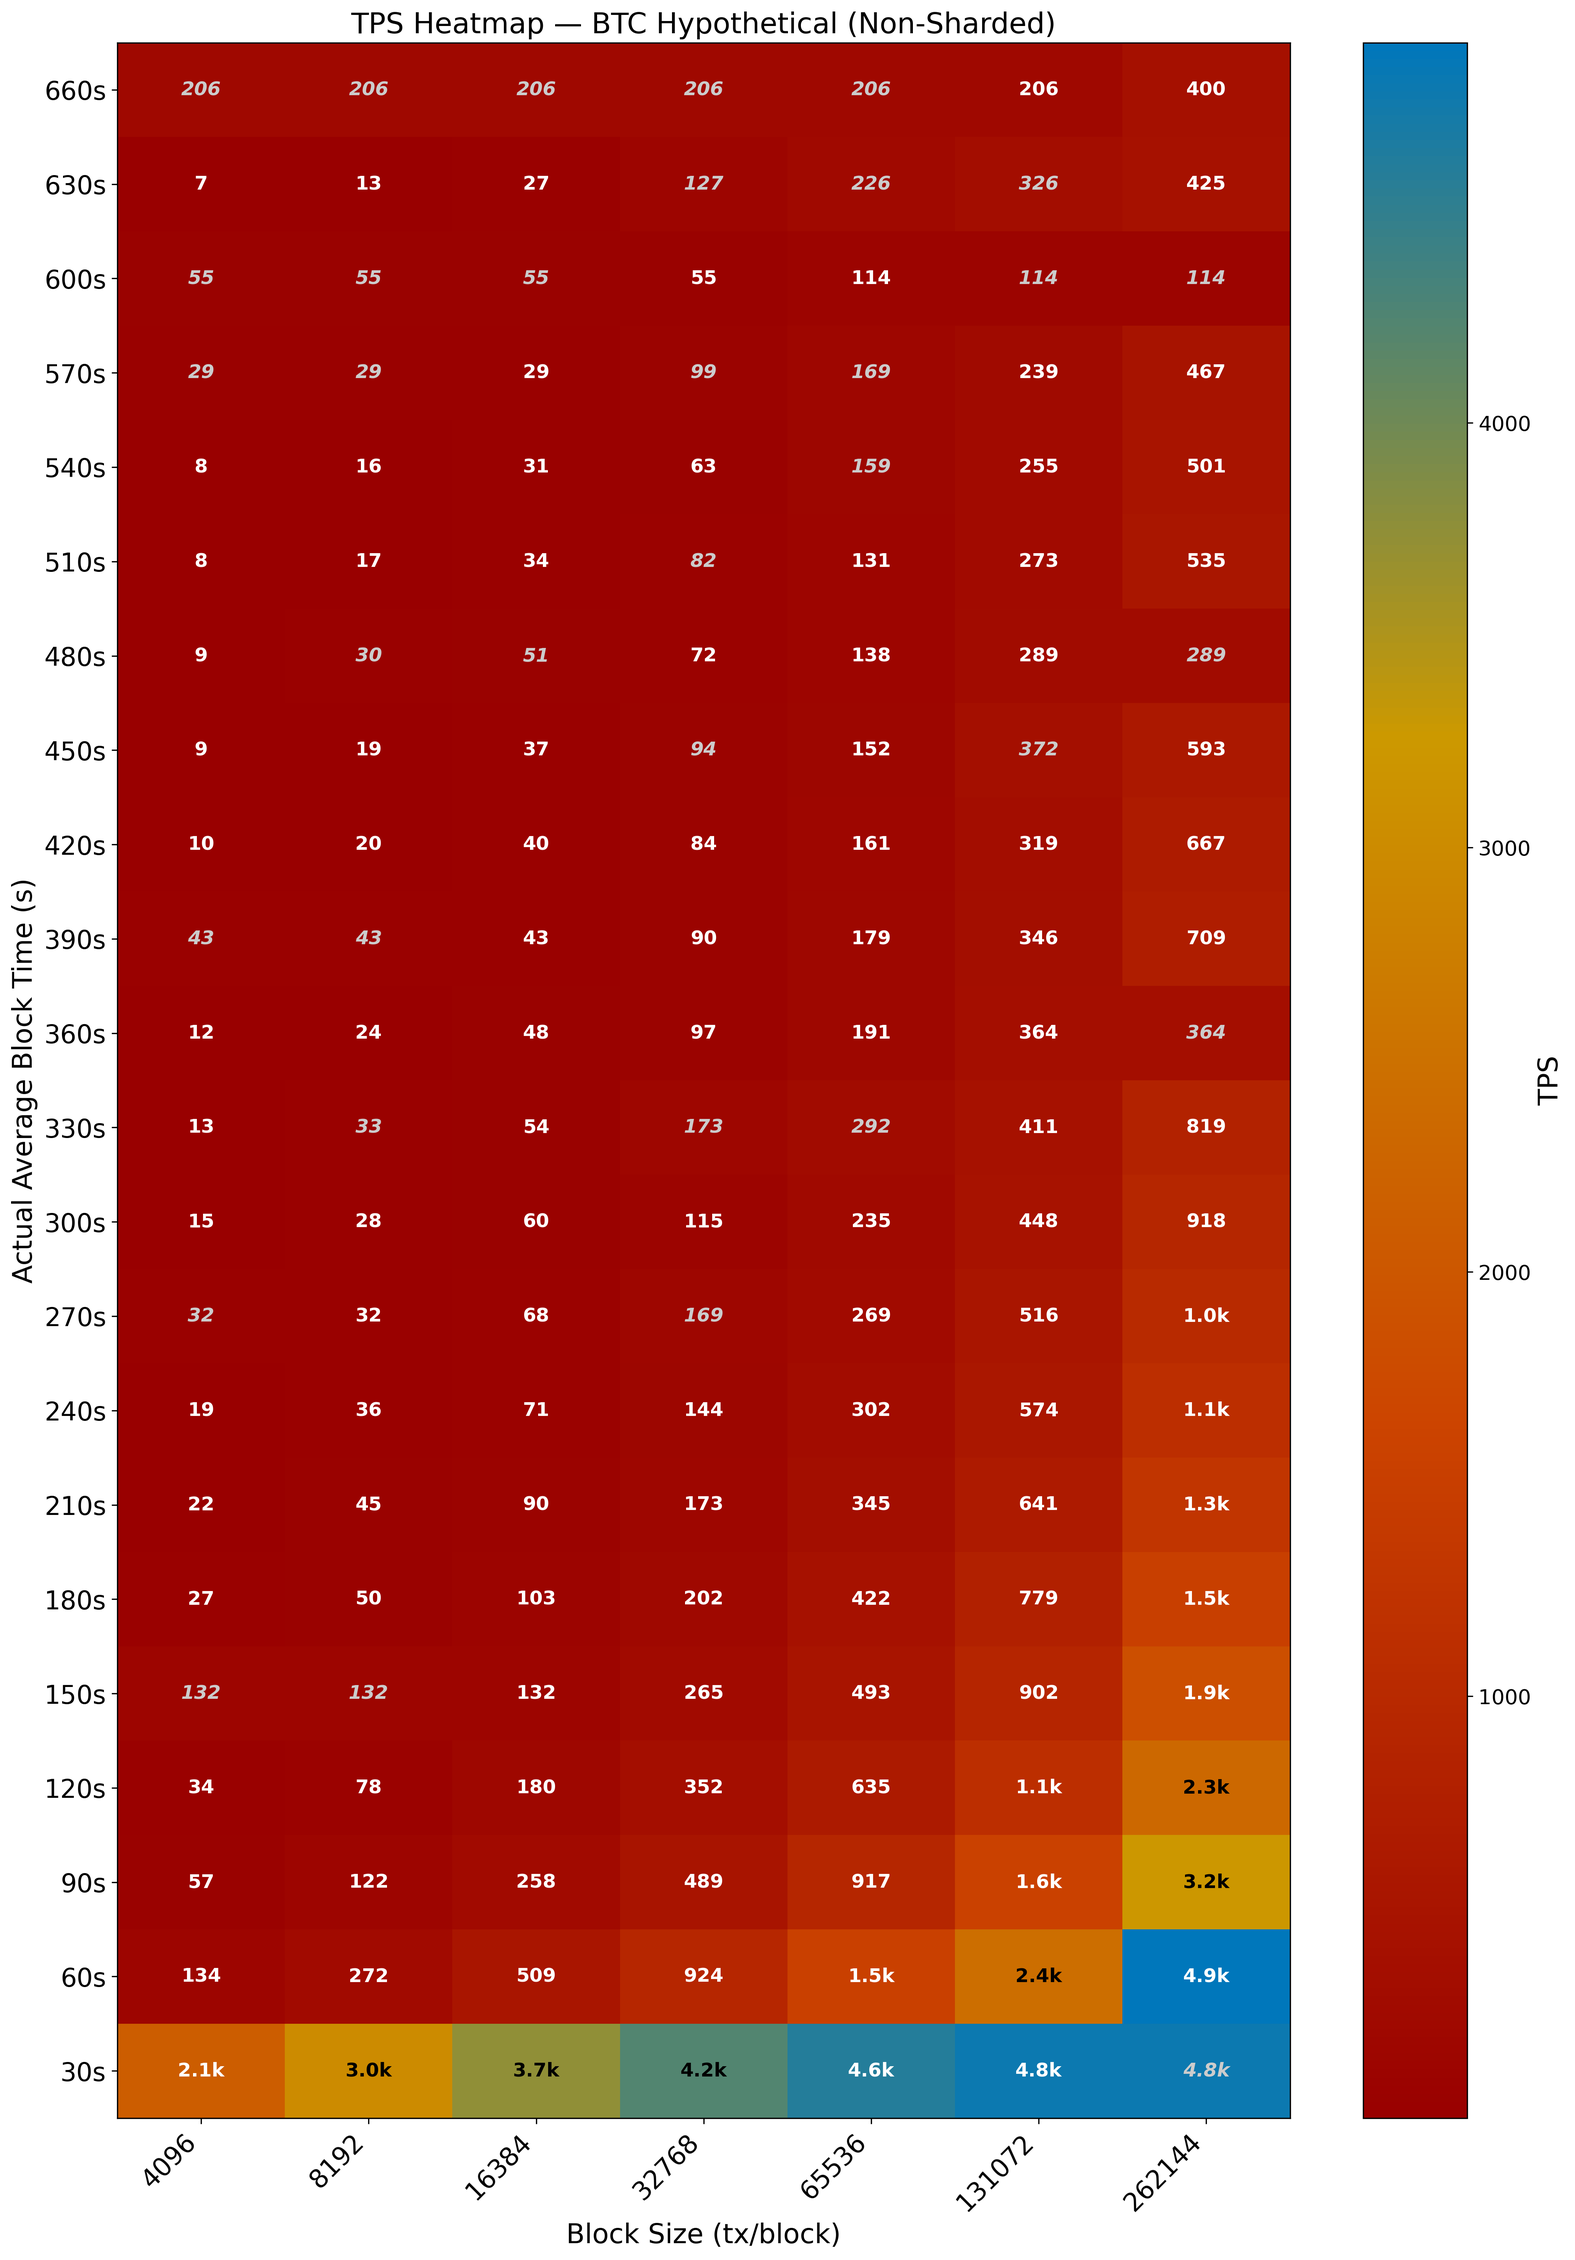
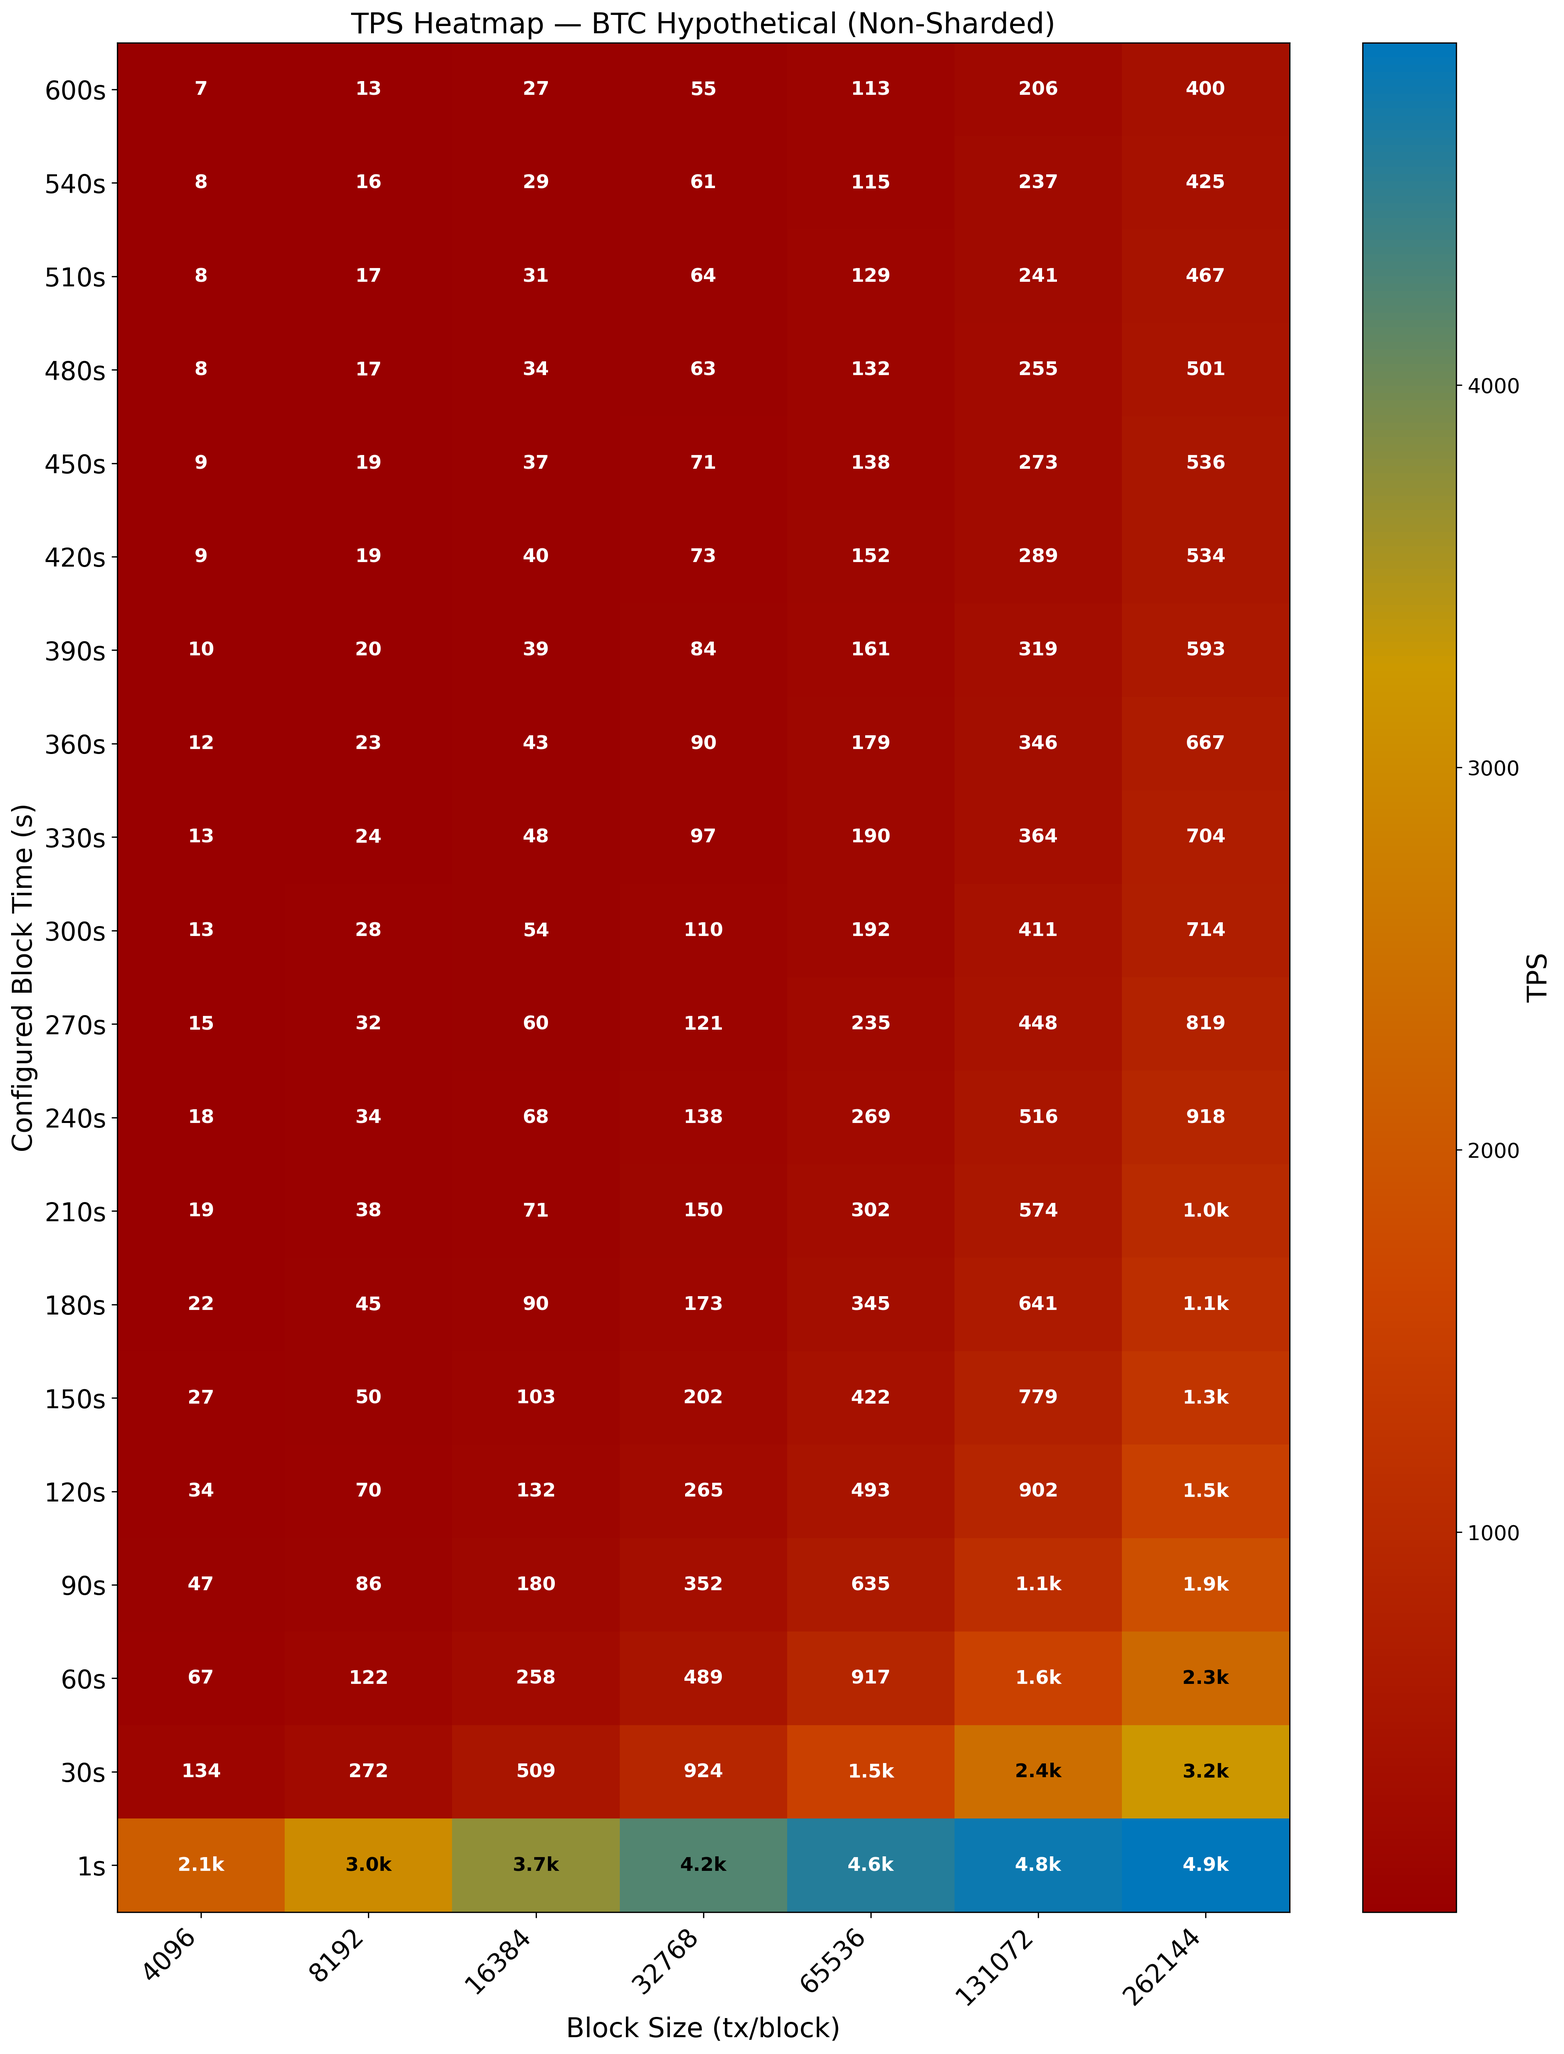
added new graphs, potentially to be added  in the paper

diff --git a/graph.py b/graph.py
@@ -156,12 +156,11 @@ def run_bubble_nonsharded_vs_memo_s1(non_csv: str, memo_csv: str, outdir: str, s
 
     c_currency = pick_col(["currency"])
     c_bs       = pick_col(["block size", "block_size", "blocksize"])
-    c_abt      = pick_col(["average block time", "avg block time", "avg_block_time"])
     c_bt_cfg   = pick_col(["blocktime in configuration file", "configured blocktime", "blocktime"])
     c_tps      = pick_col(["tps"])
 
     missing = [n for n, c in [("currency", c_currency), ("block size", c_bs),
-                               ("average block time", c_abt), ("blocktime in configuration file", c_bt_cfg),
+                               ("blocktime in configuration file", c_bt_cfg),
                                ("tps", c_tps)] if c is None]
     if missing:
         print(f"[skip] non-sharded CSV missing required columns: {missing}")
@@ -178,36 +177,47 @@ def run_bubble_nonsharded_vs_memo_s1(non_csv: str, memo_csv: str, outdir: str, s
         print("[skip] non-sharded CSV has no rows for btc_hypothetical")
         return
 
-    for c in [c_bs, c_abt, c_bt_cfg, c_tps]:
+    for c in [c_bs, c_bt_cfg, c_tps]:
         df[c] = pd.to_numeric(df[c], errors="coerce")
-    df = df.dropna(subset=[c_bs, c_abt, c_bt_cfg, c_tps])
+    df = df.dropna(subset=[c_bs, c_bt_cfg, c_tps])
     if df.empty:
         print("[skip] BTC heatmap has no usable rows after numeric coercion")
         return
 
     df["bs"]      = df[c_bs].astype(float).round().astype(int)
-    df["abt"]     = df[c_abt].astype(float)
+    df["bt_cfg"]  = df[c_bt_cfg].astype(float)
     df["tps_val"] = df[c_tps].astype(float)
 
-    # Y-axis binned into 30-second ranges: 1-30s, 30-60s, 60-90s, ...
-    df["abt_key"] = (df["abt"] // 30).astype(int) * 30
+    block_sizes   = sorted(df["bs"].unique().tolist())
+    bt_cfg_keys   = sorted(df["bt_cfg"].unique().tolist())
 
-    block_sizes = sorted(df["bs"].unique().tolist())
-    abt_keys    = sorted(df["abt_key"].unique().tolist())
-
-    pivot_tps = df.pivot_table(index="abt_key", columns="bs", values="tps_val", aggfunc="mean")
-    pivot_abt = df.pivot_table(index="abt_key", columns="bs", values="abt",     aggfunc="mean")
-    pivot_tps = pivot_tps.reindex(index=abt_keys, columns=block_sizes)
-    pivot_abt = pivot_abt.reindex(index=abt_keys, columns=block_sizes)
+    pivot_tps = df.pivot_table(index="bt_cfg", columns="bs", values="tps_val", aggfunc="mean")
+    pivot_tps = pivot_tps.reindex(index=bt_cfg_keys, columns=block_sizes)
 
     tps_vals  = pivot_tps.values.astype(float)
     was_nan   = np.isnan(tps_vals)
-    # Fill missing cells by averaging adjacent columns, then rows for any remaining gaps
-    tps_filled = pd.DataFrame(tps_vals).interpolate(axis=1, method="linear", limit_direction="both").values
-    tps_filled = pd.DataFrame(tps_filled).interpolate(axis=0, method="linear", limit_direction="both").values
-    masked     = np.ma.masked_invalid(tps_filled)
 
-    n_y, n_x = len(abt_keys), len(block_sizes)
+    # Fill NaN cells using only vertical (top/bottom) neighbors — never sideways
+    tps_filled = tps_vals.copy()
+    n_rows_fill, n_cols_fill = tps_vals.shape
+    for _j in range(n_cols_fill):
+        for _i in range(n_rows_fill):
+            if not np.isnan(tps_vals[_i, _j]):
+                continue
+            top = next((tps_vals[r, _j] for r in range(_i - 1, -1, -1)
+                        if not np.isnan(tps_vals[r, _j])), None)
+            bot = next((tps_vals[r, _j] for r in range(_i + 1, n_rows_fill)
+                        if not np.isnan(tps_vals[r, _j])), None)
+            if top is not None and bot is not None:
+                tps_filled[_i, _j] = (top + bot) / 2
+            elif top is not None:
+                tps_filled[_i, _j] = top
+            elif bot is not None:
+                tps_filled[_i, _j] = bot
+
+    masked = np.ma.masked_invalid(tps_filled)
+
+    n_y, n_x = len(bt_cfg_keys), len(block_sizes)
     x_edges  = np.arange(n_x + 1) - 0.5
     y_edges  = np.arange(n_y + 1) - 0.5
 
@@ -233,7 +243,7 @@ def run_bubble_nonsharded_vs_memo_s1(non_csv: str, memo_csv: str, outdir: str, s
     ax.set_xticks(range(n_x))
     ax.set_xticklabels([str(bs) for bs in block_sizes], rotation=45, ha="right", fontsize=16)
     ax.set_yticks(range(n_y))
-    ax.set_yticklabels([f"{k+30}s" for k in abt_keys], fontsize=16)
+    ax.set_yticklabels([f"{k:.0f}s" for k in bt_cfg_keys], fontsize=16)
 
     for i in range(n_y):
         for j in range(n_x):
@@ -241,21 +251,18 @@ def run_bubble_nonsharded_vs_memo_s1(non_csv: str, memo_csv: str, outdir: str, s
             if np.isnan(tps_val):
                 continue
             tps_str = f"{tps_val:.0f}" if tps_val < 1000 else f"{tps_val/1000:.1f}k"
-            # Pick white or black text based on background luminance (ITU-R BT.709)
             r, g, b, _ = cmap(norm(tps_val))
             lum = 0.2126 * r + 0.7152 * g + 0.0722 * b
-            base_color = "black" if lum > 0.45 else "white"
-            # Interpolated cells: same contrast rule but slightly muted
             if was_nan[i, j]:
                 color = "#444444" if lum > 0.45 else "#cccccc"
             else:
-                color = base_color
-            style = "italic" if was_nan[i, j] else "normal"
+                color = "black" if lum > 0.45 else "white"
             ax.text(j, i, tps_str, ha="center", va="center",
-                    fontsize=12, color=color, fontweight="bold", fontstyle=style)
+                    fontsize=12, color=color, fontweight="bold",
+                    fontstyle="italic" if was_nan[i, j] else "normal")
 
     ax.set_xlabel("Block Size (tx/block)", fontsize=17)
-    ax.set_ylabel("Actual Average Block Time (s)", fontsize=17)
+    ax.set_ylabel("Configured Mining Time (s)", fontsize=17)
     ax.set_title("TPS Heatmap — BTC Hypothetical (Non-Sharded)", fontsize=18)
 
     cbar = plt.colorbar(im, ax=ax)
@@ -267,6 +274,191 @@ def run_bubble_nonsharded_vs_memo_s1(non_csv: str, memo_csv: str, outdir: str, s
         plt.show()
     else:
         plt.close()
+
+
+# ----------------------------
+# 2b) Non-sharded: TPS scatter -> non_sharded_graphs/
+#     X = block size, Y = actual block time (raw), color = TPS
+#     Each dot = one simulation run, no binning or averaging
+# ----------------------------
+def run_nonsharded_scatter(non_csv: str, outdir: str, show: bool):
+    if not os.path.exists(non_csv):
+        print(f"[skip] non-sharded CSV not found: {non_csv}")
+        return
+
+    df = pd.read_csv(non_csv, engine="python", on_bad_lines="warn")
+    df.columns = [str(c).strip().lower() for c in df.columns]
+
+    def pick_col(candidates):
+        for c in candidates:
+            if c in df.columns:
+                return c
+        return None
+
+    c_currency = pick_col(["currency"])
+    c_bs       = pick_col(["block size", "block_size", "blocksize"])
+    c_abt      = pick_col(["average block time", "avg block time", "avg_block_time"])
+    c_tps      = pick_col(["tps"])
+    c_bt_cfg   = pick_col(["blocktime in configuration file", "configured blocktime", "blocktime"])
+
+    missing = [n for n, c in [("currency", c_currency), ("block size", c_bs),
+                               ("average block time", c_abt), ("tps", c_tps)] if c is None]
+    if missing:
+        print(f"[skip] non-sharded scatter missing columns: {missing}")
+        return
+
+    df[c_currency] = (
+        df[c_currency].astype(str)
+        .str.replace("", "", regex=False)
+        .str.lower().str.strip()
+    )
+    df = df[df[c_currency].eq("btc_hypothetical")].copy()
+    if df.empty:
+        print("[skip] no btc_hypothetical rows for scatter plot")
+        return
+
+    for c in [c_bs, c_abt, c_tps]:
+        df[c] = pd.to_numeric(df[c], errors="coerce")
+    df = df.dropna(subset=[c_bs, c_abt, c_tps]).copy()
+
+    df["bs"]      = df[c_bs].astype(float).round().astype(int)
+    df["abt"]     = df[c_abt].astype(float)
+    df["tps_val"] = df[c_tps].astype(float)
+
+    block_sizes  = sorted(df["bs"].unique().tolist())
+    x_positions  = {bs: i for i, bs in enumerate(block_sizes)}
+
+    # Small x-jitter so overlapping points don't stack invisibly
+    rng = np.random.default_rng(42)
+    df["x"] = df["bs"].map(x_positions) + rng.uniform(-0.25, 0.25, size=len(df))
+
+    fig, ax = plt.subplots(figsize=(14, 7))
+
+    cmap = plt.matplotlib.colors.LinearSegmentedColormap.from_list(
+        "red_to_skyblue", ["#990000", "#cc4400", "#cc9900", "#0077bb"]
+    )
+    norm = plt.Normalize(vmin=df["tps_val"].min(), vmax=df["tps_val"].max())
+
+    sc = ax.scatter(
+        df["x"], df["abt"],
+        c=df["tps_val"], cmap=cmap, norm=norm,
+        s=200, alpha=0.85, edgecolors="none"
+    )
+
+    cbar = plt.colorbar(sc, ax=ax)
+    cbar.set_label("TPS", fontsize=13)
+    cbar.ax.tick_params(labelsize=11)
+
+    ax.set_yscale("log")
+    ax.set_xticks(range(len(block_sizes)))
+    ax.set_xticklabels([str(bs) for bs in block_sizes], rotation=45, ha="right", fontsize=11)
+    ax.set_xlabel("Block Size (tx/block)", fontsize=13)
+    ax.set_ylabel("Actual Mining Time (s)", fontsize=13)
+    ax.set_title("Non-Sharded TPS Scatter — BTC Hypothetical\n"
+                 "Each point = one simulation run; color = TPS", fontsize=13)
+    ax.grid(True, linestyle="--", alpha=0.35)
+    fig.tight_layout()
+
+    savefig(outdir, "nonsharded_tps_scatter.png")
+    if show:
+        plt.show()
+    else:
+        plt.close(fig)
+
+
+# ----------------------------
+# 2c) Non-sharded: Actual Block Time vs Block Size -> non_sharded_graphs/
+#     One line per configured blocktime
+# ----------------------------
+def run_nonsharded_blocktime_vs_blocksize(non_csv: str, outdir: str, show: bool):
+    if not os.path.exists(non_csv):
+        print(f"[skip] non-sharded CSV not found: {non_csv}")
+        return
+
+    df = pd.read_csv(non_csv, engine="python", on_bad_lines="warn")
+    df.columns = [str(c).strip().lower() for c in df.columns]
+
+    def pick_col(candidates):
+        for c in candidates:
+            if c in df.columns:
+                return c
+        return None
+
+    c_currency = pick_col(["currency"])
+    c_bs       = pick_col(["block size", "block_size", "blocksize"])
+    c_abt      = pick_col(["average block time", "avg block time", "avg_block_time"])
+    c_bt_cfg   = pick_col(["blocktime in configuration file", "configured blocktime", "blocktime"])
+
+    missing = [n for n, c in [("currency", c_currency), ("block size", c_bs),
+                               ("average block time", c_abt),
+                               ("blocktime in configuration file", c_bt_cfg)] if c is None]
+    if missing:
+        print(f"[skip] non-sharded CSV missing columns for block time plot: {missing}")
+        return
+
+    df[c_currency] = (
+        df[c_currency].astype(str)
+        .str.replace("", "", regex=False)
+        .str.lower().str.strip()
+    )
+    df = df[df[c_currency].eq("btc_hypothetical")].copy()
+    if df.empty:
+        print("[skip] no btc_hypothetical rows for block time vs block size plot")
+        return
+
+    for c in [c_bs, c_abt, c_bt_cfg]:
+        df[c] = pd.to_numeric(df[c], errors="coerce")
+    df = df.dropna(subset=[c_bs, c_abt, c_bt_cfg]).copy()
+
+    df["bs"]         = df[c_bs].astype(float).round().astype(int)
+    df["abt"]        = df[c_abt].astype(float)
+    df["bt_cfg"]     = df[c_bt_cfg].astype(float).round(6)
+
+    # Average actual block time per (configured blocktime, block size)
+    agg = (
+        df.groupby(["bt_cfg", "bs"])["abt"]
+        .mean()
+        .reset_index()
+        .sort_values(["bt_cfg", "bs"])
+    )
+
+    block_sizes   = sorted(agg["bs"].unique().tolist())
+    blocktimes    = sorted(agg["bt_cfg"].unique().tolist())
+    x_positions   = {bs: i * 2 for i, bs in enumerate(block_sizes)}
+    xticks        = [x_positions[bs] for bs in block_sizes]
+    xticklabels   = [str(bs) for bs in block_sizes]
+
+    fig, ax = plt.subplots(figsize=(14, 10))
+
+    n_colors   = 10
+    palette    = [plt.cm.tab10(i) for i in range(n_colors)]
+    linestyles = ["-", ":"]   # solid for first cycle, dotted when colors repeat
+
+    for idx, bt in enumerate(blocktimes):
+        sub = agg[agg["bt_cfg"] == bt].sort_values("bs")
+        x_vals    = [x_positions[bs] for bs in sub["bs"]]
+        label     = f"{bt:.0f}s" if bt >= 1 else f"{bt:.2f}s"
+        color     = palette[idx % n_colors]
+        linestyle = linestyles[idx // n_colors % len(linestyles)]
+        ax.plot(x_vals, sub["abt"], marker="o", linewidth=1.8, markersize=5,
+                label=label, color=color, linestyle=linestyle)
+
+    ax.set_xlabel("Block Size (tx/block)", fontsize=13)
+    ax.set_ylabel("Actual Avg Block Time (s)", fontsize=13)
+    ax.set_title("Non-Sharded: Actual Mining Time vs Block Size (BTC Hypothetical)", fontsize=14)
+    ax.set_xticks(xticks)
+    ax.set_xticklabels(xticklabels, rotation=45, ha="right")
+    ax.legend(title="Configured\nMining Time", fontsize=9, title_fontsize=9,
+              loc="upper right", ncol=2)
+    ax.set_yscale("log")
+    ax.grid(True, linestyle="--", alpha=0.4)
+    fig.tight_layout()
+
+    savefig(outdir, "nonsharded_blocktime_vs_blocksize.png")
+    if show:
+        plt.show()
+    else:
+        plt.close(fig)
 
 
 # ----------------------------
@@ -795,6 +987,8 @@ def main():
     ap.add_argument("--skip_memo_msg", action="store_true")
     ap.add_argument("--skip_memo_bt", action="store_true")
     ap.add_argument("--skip_non", action="store_true")
+    ap.add_argument("--skip_non_scatter", action="store_true")
+    ap.add_argument("--skip_non_bt", action="store_true")
     ap.add_argument("--skip_validation", action="store_true")
     ap.add_argument("--skip_sig_schemes", action="store_true",
                     help="Skip per-signature-scheme plot generation")
@@ -823,6 +1017,12 @@ def main():
 
     if not args.skip_non:
         run_bubble_nonsharded_vs_memo_s1(non_csv, memo_csv, args.non_out, show=show)
+
+    if not args.skip_non_scatter:
+        run_nonsharded_scatter(non_csv, args.non_out, show=show)
+
+    if not args.skip_non_bt:
+        run_nonsharded_blocktime_vs_blocksize(non_csv, args.non_out, show=show)
 
     if not args.skip_validation:
         run_validation(val_csv, args.val_out, show=show)
